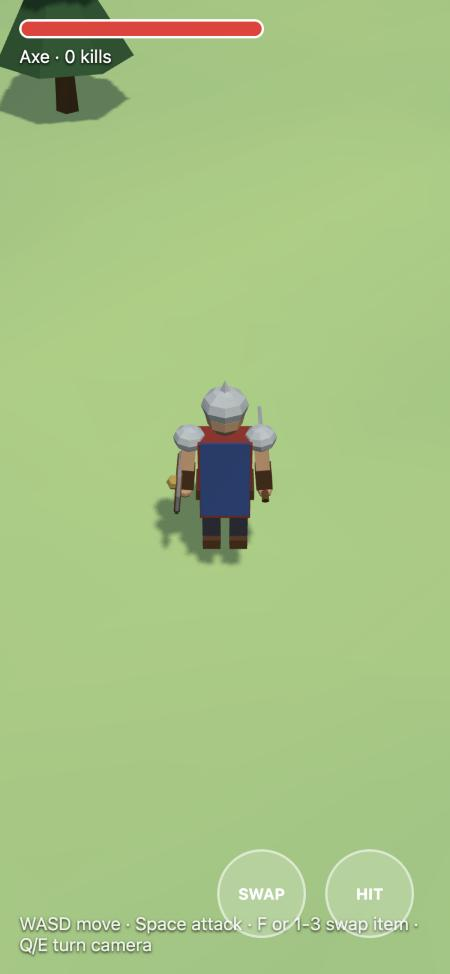
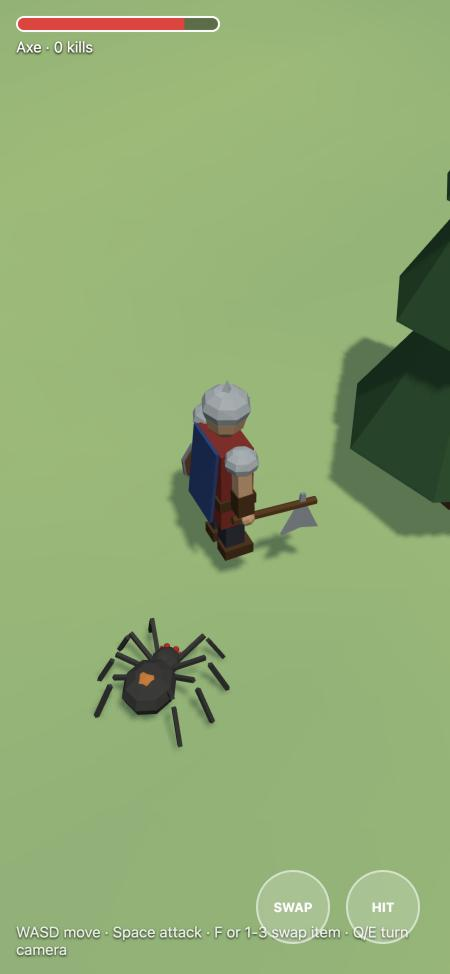
Fix sword grip and axe head orientation
- sword: rebuild along +z with edges in the swing plane (the blade used to
  come out the bottom of the fist, pointing back); a root bone tips it up
  and forward at rest
- swing clip: snap the wrist (handR rx) so the cut ends with the blade level
  and forward instead of pointing straight up
- axe: flip the head so the cutting edge leads the chop, and pitch the haft
  down 30 degrees with a root bone so it strikes roughly level
- refresh README screenshots that showed the old grips; before/after viewer
  frames in docs/grip-fix/ and docs/grip-fix.jpg

diff --git a/README.md b/README.md
@@ -125,7 +125,10 @@ to one geometry per seeded variant and drawn with `InstancedMesh`: 16 variants, 
 
 **Props and sockets.** A socket is just a bone. The warrior's `hand*` bones carry a shield on the left (`hold handL
 shield` in the warrior's own text) and whatever the player equips on the right; swapping calls `hold()` again, which
-detaches the old prop and compiles the new one. Goblins use the same mechanism to carry a club or a spear.
+detaches the old prop and compiles the new one. Goblins use the same mechanism to carry a club or a spear. A prop's
+origin sits in the fist, and each prop orients itself in its own text with a rotated root bone (`b g root 0 -.03 0 /
+-10 0 0` tips the sword's blade up and forward, the axe pitches its haft down so the edge leads the chop); the swing
+clip also snaps the wrist (`handR rx`) so the blade comes down level at the end of the cut.
 
 **Deterministic creatures.** The slime, goblin, spider and bat blocks use `~` ranges, `|` picks, `?` optional parts
 and `S` scale, so every seed is a different, repeatable creature: size, color, head size, horns, hats, markings,
